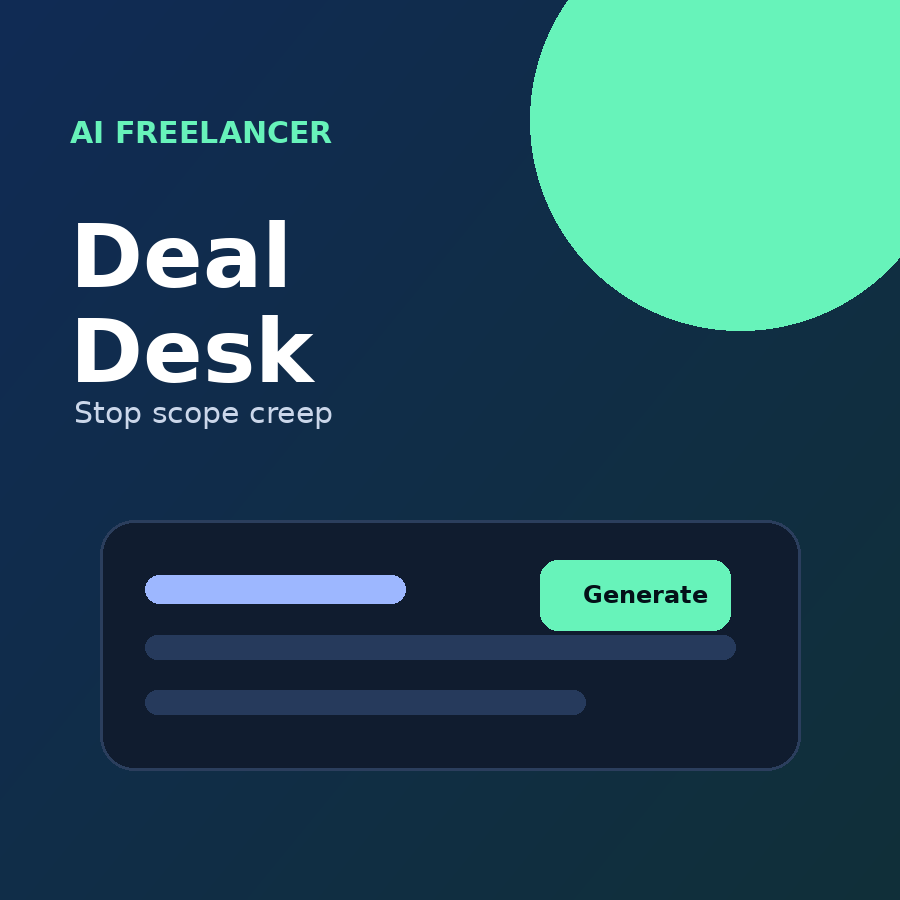
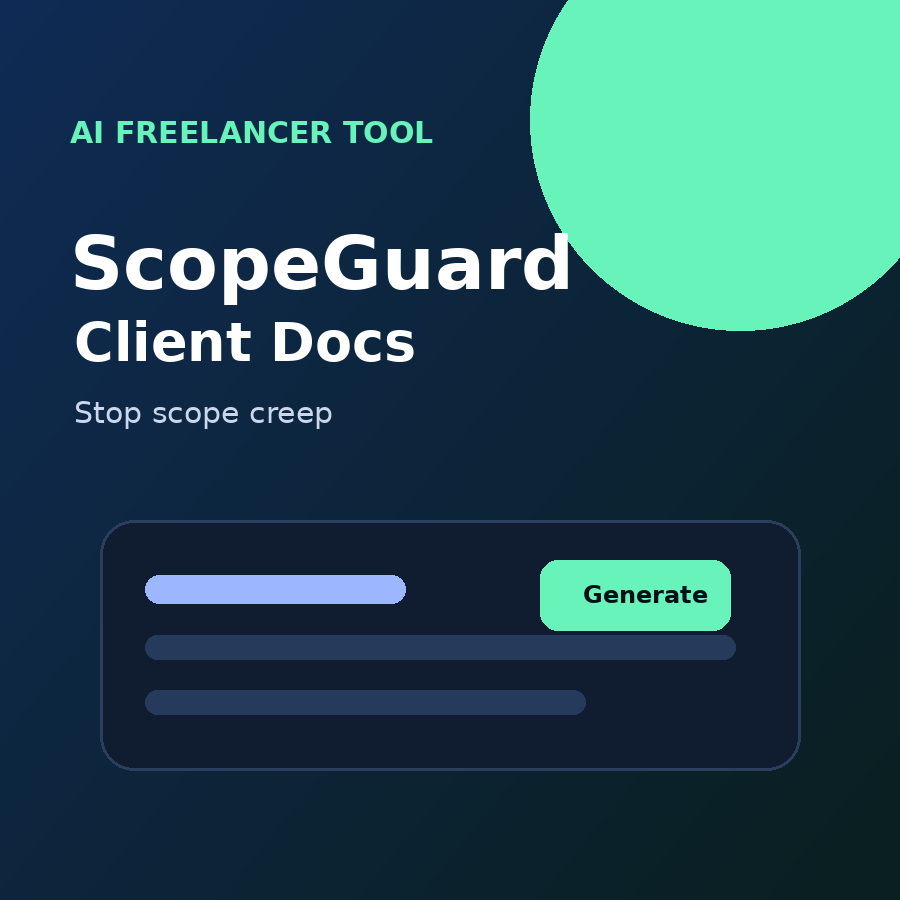
fix: clarify product and gumroad listing

Changed region(s): [[0.0622, 0.2489, 0.6533, 0.4356], [0.8711, 0.84, 1.0, 1.0], [0.3733, 0.1244, 0.4667, 0.1556]]

diff --git a/product/app/index.html b/product/app/index.html
@@ -3,13 +3,13 @@
 <head>
   <meta charset="utf-8" />
   <meta name="viewport" content="width=device-width, initial-scale=1" />
-  <title>AI Freelancer Deal Desk</title>
+  <title>ScopeGuard Client Docs Generator</title>
   <link rel="stylesheet" href="styles.css" />
 </head>
 <body>
   <div class="shell">
     <header class="hero">
-      <p class="eyebrow">AI Freelancer Deal Desk</p>
+      <p class="eyebrow">ScopeGuard Client Docs Generator</p>
       <h1>Turn messy client requests into clean proposal, scope, and change-order docs.</h1>
       <p class="sub">A local browser tool for AI automation freelancers. No login. No server. Fill the form, generate client-ready docs, copy or download.</p>
     </header>

diff --git a/product/app/script.js b/product/app/script.js
@@ -30,7 +30,7 @@ function generate() {
   const changeRequest = value('changeRequest', '[Change requested]');
   const today = new Date().toLocaleDateString();
 
-  const doc = `AI FREELANCER DEAL DESK DOCS\nGenerated: ${today}\nClient: ${client}\nProject: ${project}\n\n============================================================\n1) CLIENT-READY PROPOSAL\n============================================================\n\nHi ${client},\n\nThanks for discussing ${project}. Here is the clean project scope so we both know what is included, what is not included, and how changes will be handled.\n\nPROJECT OUTCOME\n${outcome}\n\nINCLUDED WORK\n${included}\n\nNOT INCLUDED\n${excluded}\n\nTIMELINE\n${timeline}\n\nINVESTMENT\n${price}\n\nREVISIONS\nThis includes ${revisions}. Extra revision rounds or new features are handled as change requests.\n\nCLIENT RESPONSIBILITIES\n${clientNeeds}\n\nACCEPTANCE\nIf this looks good, reply with approval and I will send the payment/start details.\n\n============================================================\n2) SCOPE BOUNDARY CLAUSES\n============================================================\n\nUse these in your proposal or email:\n\n- Work starts after payment and required access/materials are received.\n- Any feature, workflow, integration, or revision not listed under Included Work is out of scope.\n- Out-of-scope requests are quoted separately before work begins.\n- Timeline depends on client feedback and access being provided on time.\n- Third-party tools, API costs, hosting, and subscriptions are paid by the client unless agreed otherwise.\n- Final delivery includes the agreed workflow/tool and basic handoff notes, not ongoing support unless purchased separately.\n\n============================================================\n3) ONBOARDING CHECKLIST\n============================================================\n\nAsk the client for:\n\n${clientNeeds}\n\nAlso confirm:\n- Who gives final approval?\n- What does success look like after 30 days?\n- What tools must this integrate with?\n- Are there security, privacy, or compliance requirements?\n- What examples should the AI use or avoid?\n\n============================================================\n4) CHANGE-ORDER MESSAGE\n============================================================\n\nUse when the client asks for extra work:\n\nHi ${client},\n\nThat request makes sense. It is outside the original agreed scope for ${project}, so I can handle it as a change order.\n\nREQUEST\n${changeRequest}\n\nIMPACT\nThis may change the price, timeline, or both.\n\nOPTIONS\nOption A: Keep the original scope and timeline.\nOption B: Add this request as extra paid work. I will quote it before starting.\nOption C: Swap it with an existing item so the timeline/budget stays controlled.\n\nPlease reply with A, B, or C and I will proceed.\n\n============================================================\n5) WEEKLY CLIENT UPDATE\n============================================================\n\nSubject: ${project} - weekly update\n\nHi ${client},\n\nQuick update on ${project}:\n\nDONE THIS WEEK\n- [add completed items]\n\nNEXT\n- [add next items]\n\nBLOCKERS / NEED FROM YOU\n- [add blockers]\n\nSCOPE WATCH\n- Current scope status: on track / change requested / blocked\n\nThanks.\n`;
+  const doc = `AI FREELANCER DEAL DESK DOCS\nGenerated: ${today}\nClient: ${client}\nProject: ${project}\n\n============================================================\n1) CLIENT-READY PROPOSAL\n============================================================\n\nHi ${client},\n\nThanks for discussing ${project}. Here is the clean project scope so we both know what is included, what is not included, and how changes will be handled.\n\nPROJECT OUTCOME\n${outcome}\n\nINCLUDED WORK\n${included}\n\nNOT INCLUDED\n${excluded}\n\nTIMELINE\n${timeline}\n\nINVESTMENT\n${price}\n\nREVISIONS\nThis includes ${revisions}. Extra revision rounds or new features are handled as change requests.\n\nCLIENT RESPONSIBILITIES\n${clientNeeds}\n\nACCEPTANCE\nIf this looks good, reply with approval and I will send the payment/start details.\n\n============================================================\n2) SCOPE BOUNDARY CLAUSES\n============================================================\n\nUse these in your proposal or email:\n\n- Work starts after payment and required access/materials are received.\n- Any feature, workflow, integration, or revision not listed under Included Work is out of scope.\n- Out-of-scope requests are quoted separately before work begins.\n- Timeline depends on client feedback and access being provided on time.\n- Third-party tools, API costs, hosting, and subscriptions are paid by the client unless agreed otherwise.\n- Final delivery includes the agreed workflow/tool and basic handoff notes, not ongoing support unless purchased separately.\n\n============================================================\n3) ONBOARDING CHECKLIST\n============================================================\n\nAsk the client for:\n\n${clientNeeds}\n\nAlso confirm:\n- Who gives final approval?\n- What does success look like after 30 days?\n- What tools must this integrate with?\n- Are there security, privacy, or compliance requirements?\n- What examples should the AI use or avoid?\n\n==... [truncated]
 
   $('output').value = doc;
 }

diff --git a/TODO_LIST.md b/TODO_LIST.md
@@ -1,56 +1,94 @@
 # MONEY MACHINE TODO LIST
 
 Simple rule:
-- I build the product and sales assets.
-- You only do human-only clicks: signup, passwords, payout/KYC, publishing approval.
-- When you finish a task, tell me: "done task X".
-- I tick it off and add the next tiny task.
+- I build product/assets/copy.
+- You only do human-only website clicks.
+- When done, tell me. I update this.
+
+---
+
+## What we are selling
+
+Product name:
+`ScopeGuard Client Docs Generator`
+
+Plain English:
+A small browser app. Not a desk. Not physical. Not a course.
+
+Who buys it:
+AI / automation freelancers.
+
+Why they buy it:
+To stop vague client requests turning into unpaid extra work.
+
+What it does:
+Buyer fills in client/project details. App generates:
+- proposal text
+- scope boundaries
+- onboarding checklist
+- change-order message
+- weekly update
+
+Product ZIP:
+`/home/ubuntu-agent/Desktop/money-machine/dist/scopeguard-client-docs-generator.zip`
 
 ---
 
 ## Current human action
 
-### [~] Task 1 - Finish Gumroad product customize page
+### [~] Task 1 - Finish Gumroad customize page
 
 <details>
-<summary>Exact steps</summary>
+<summary>Exact fields</summary>
 
-You are on Gumroad customize page.
-
-Use this fill-in file:
+Open this file and copy/paste from it:
 `/home/ubuntu-agent/Desktop/money-machine/gumroad-fill-in-copy.txt`
 
-Use these images:
+Use these files:
 - Cover: `/home/ubuntu-agent/Desktop/money-machine/assets/gumroad-cover.png`
 - Thumbnail: `/home/ubuntu-agent/Desktop/money-machine/assets/gumroad-thumbnail.png`
+- Product ZIP: `/home/ubuntu-agent/Desktop/money-machine/dist/scopeguard-client-docs-generator.zip`
 
-Use this product ZIP when Gumroad asks for file upload:
-`/home/ubuntu-agent/Desktop/money-machine/dist/ai-freelancer-deal-desk-app.zip`
+On Gumroad:
+1. Product name/title:
+   `ScopeGuard Client Docs Generator`
 
-What to do now:
-1. Fill fields from `gumroad-fill-in-copy.txt`.
-2. Upload cover image if it asks.
-3. Upload thumbnail image if it asks.
-4. Leave integrations blank.
-5. Versions: skip unless forced. If forced, name it `Standard`.
-6. When Gumroad asks product file/upload, upload the ZIP above.
-7. Stop before final publish if unsure.
-8. Come back and tell me what button/screen you see.
+2. Price:
+   `19`
+
+3. URL:
+   `scopeguard-client-docs-generator`
+
+4. Call to action:
+   `Get the app`
+
+5. Summary:
+   `Generate proposal, scope, onboarding, change-order, and weekly update text for AI client projects in minutes.`
+
+6. Description:
+   Copy DESCRIPTION from `gumroad-fill-in-copy.txt`.
+
+7. Additional details:
+   Copy ADDITIONAL DETAILS from `gumroad-fill-in-copy.txt`.
+
+8. Product info:
+   `Digital browser app download for freelancers and consultants.`
+
+9. Integrations:
+   Leave blank.
+
+10. Versions:
+   Skip if optional. If required, create one called `Standard`.
+
+11. Cover:
+   Upload `gumroad-cover.png`.
+
+12. Thumbnail:
+   Upload `gumroad-thumbnail.png`.
+
+13. Product file:
+   Upload `scopeguard-client-docs-generator.zip`.
+
+Stop before final publish if unsure. Tell me what screen/button you see.
 
 </details>
-
----
-
-## Product we are selling
-
-AI Freelancer Deal Desk.
-
-Browser app that generates:
-- proposal text
-- scope boundaries
-- onboarding checklist
-- change-order message
-- weekly client update
-
-Main ZIP:
-`/home/ubuntu-agent/Desktop/money-machine/dist/ai-freelancer-deal-desk-app.zip`

diff --git a/AGENT_CONTEXT.md b/AGENT_CONTEXT.md
@@ -4,9 +4,19 @@ Keep repo clean:
 - `TODO_LIST.md` = user actions.
 - `AGENT_CONTEXT.md` = LLM handoff.
 - Avoid extra md/readme files.
-- Non-md assets are allowed: app files, zip, images, txt fill-in copy.
+- Non-md assets are allowed.
 
-User wants caveman-simple responses and expects agent to do most work.
+User state:
+- User is frustrated because they are doing too much manual Gumroad work.
+- User wants agent to do most work.
+- User wants caveman-simple clear instructions.
+- Product name `AI Freelancer Deal Desk` was confusing; user thought it sounded like a physical desk. Renamed.
+
+Important limitation:
+- Gumroad product creation/upload does not appear available via simple public create-product API from this environment.
+- User is logged into Gumroad in their own browser, not the agent environment.
+- Agent cannot access their Google login/session unless browser automation is explicitly available and connected.
+- Do not ask for passwords.
 
 Project path:
 `/home/ubuntu-agent/Desktop/money-machine`
@@ -14,26 +24,27 @@ Project path:
 GitHub:
 `[email redacted]:VM001-Ubuntu-Agent/ember-node.git`
 
-Product:
-`AI Freelancer Deal Desk`
+Current product:
+`ScopeGuard Client Docs Generator`
 
-Value:
-A real local browser app, not markdown templates. Buyer opens `product/app/index.html`, fills client/project fields, and generates proposal, scope boundaries, onboarding checklist, change-order message, and weekly update.
+Plain English:
+Small local browser app for AI/automation freelancers. It generates proposal, scope boundaries, onboarding checklist, change-order message, and weekly update text from a form.
 
 Sellable ZIP:
-`dist/ai-freelancer-deal-desk-app.zip`
+`dist/scopeguard-client-docs-generator.zip`
 
-Gumroad assets made:
+Gumroad assets:
 - `gumroad-fill-in-copy.txt`
 - `assets/gumroad-cover.png`
 - `assets/gumroad-thumbnail.png`
-- `assets/gumroad-cover.svg`
-- `assets/gumroad-thumbnail.svg`
 
-Current user state:
-User is on Gumroad customize page asking for description, URL, cover, thumbnail, product info, call to action, summary, additional details, integrations, versions.
+Current user screen:
+Gumroad customize page asking for description, URL, cover, thumbnail, product info, call to action, summary, additional details, integrations, versions.
 
 Next user action:
-Use `gumroad-fill-in-copy.txt` and upload PNG assets. Leave integrations blank. Versions skip unless forced; if forced use Standard.
+Use TODO_LIST.md exact fields. Upload cover/thumbnail/zip. Leave integrations blank. Versions skip unless forced; if forced use Standard.
 
-When user reports progress, update TODO_LIST.md, commit, push.
+When user reports progress:
+- Update TODO_LIST.md.
+- Commit and push.
+- Keep response short and direct.